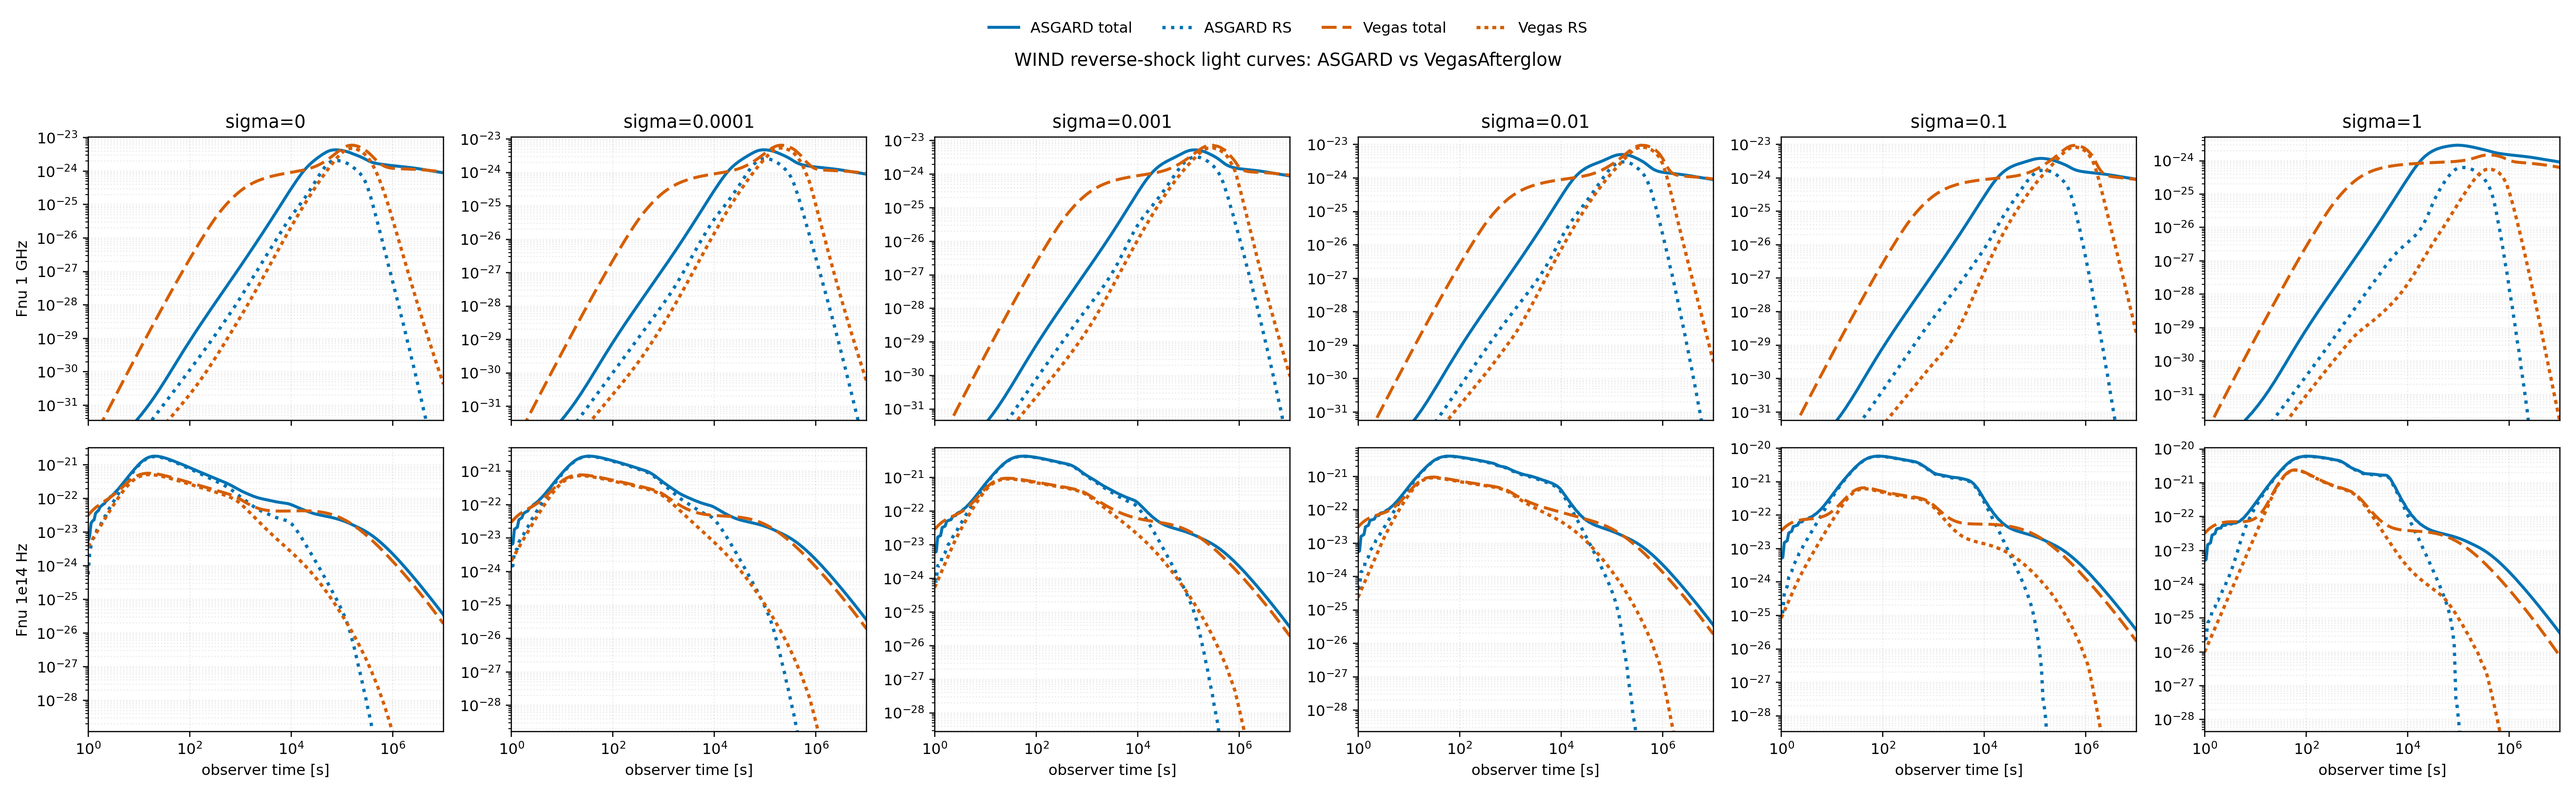
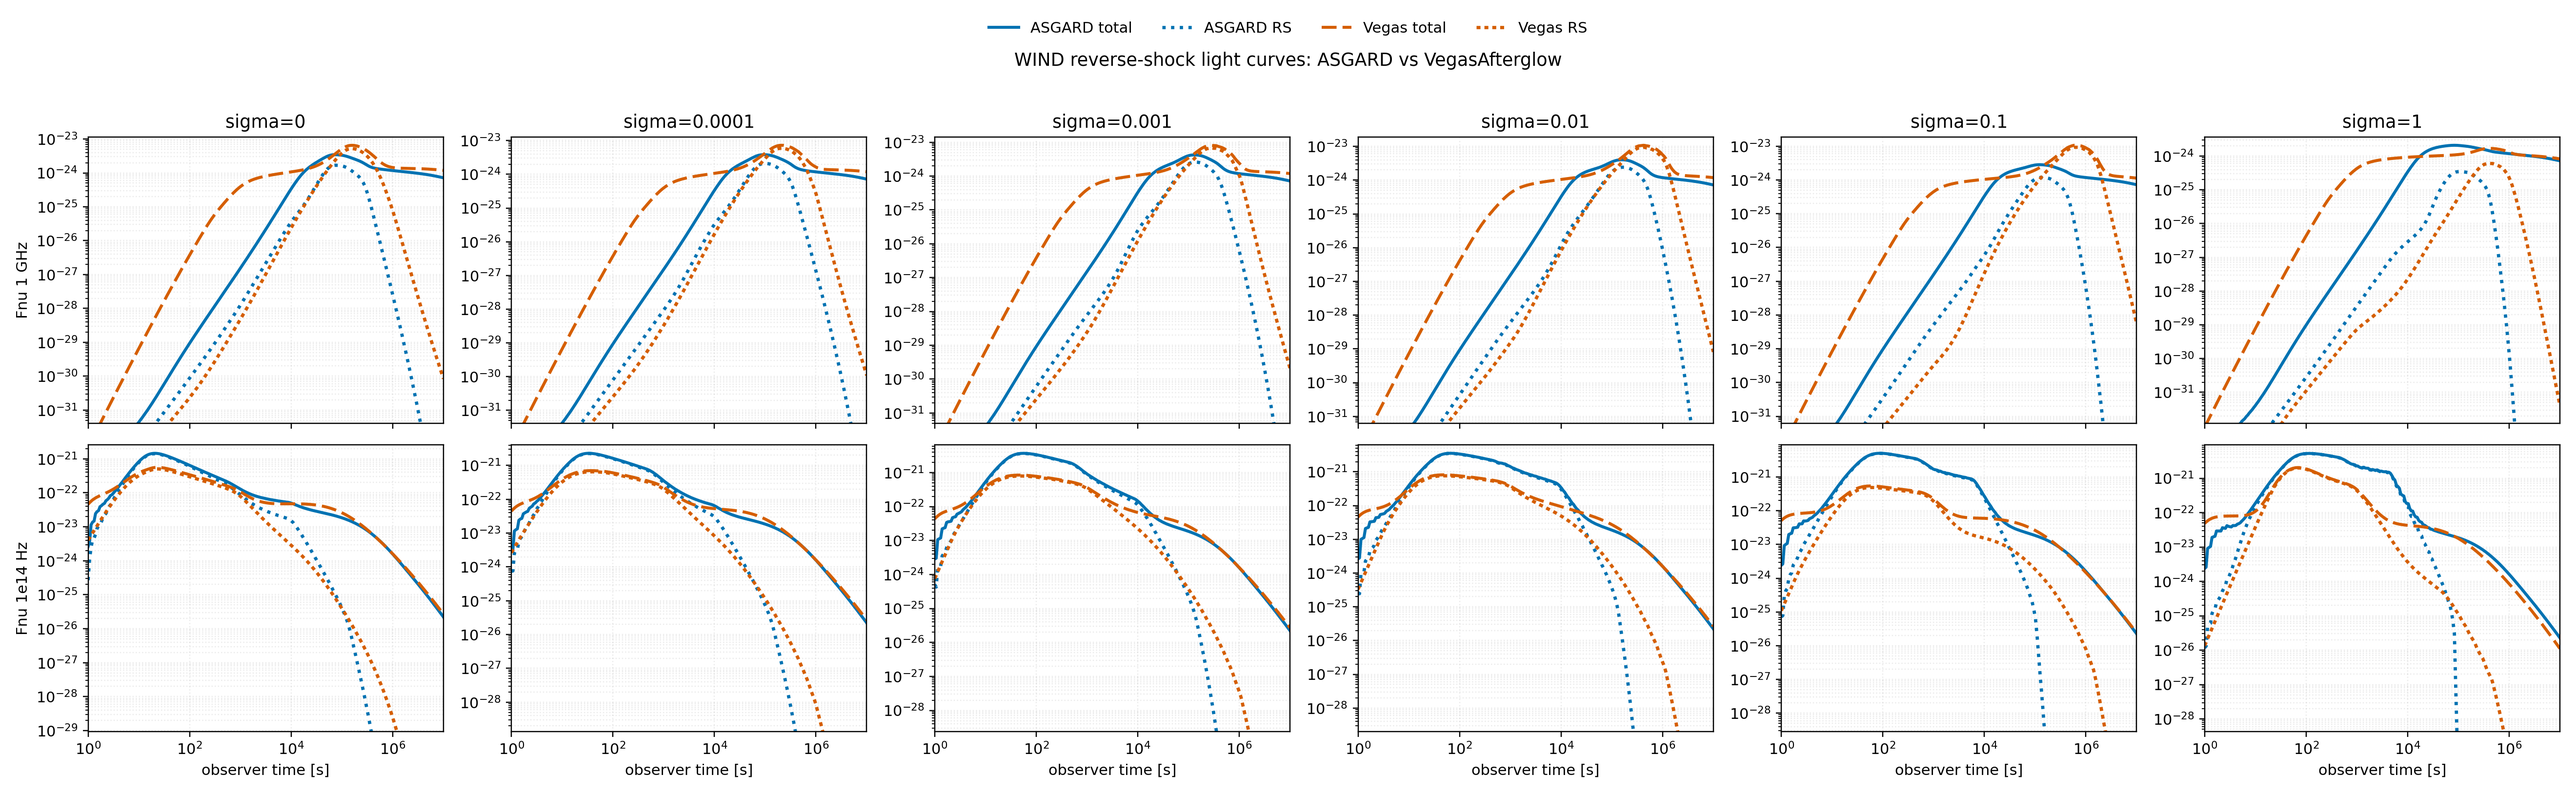
Restore magnetized RS Vegas light-curve comparisons

diff --git a/tests/magnetized_rs_vegas_lc_compare.py b/tests/magnetized_rs_vegas_lc_compare.py
@@ -1,0 +1,330 @@
+from __future__ import annotations
+
+import argparse
+from pathlib import Path
+
+import matplotlib
+
+matplotlib.use("Agg")
+import matplotlib.pyplot as plt
+import numpy as np
+
+from _repo_path import ensure_repo_root_on_path
+
+
+ensure_repo_root_on_path()
+
+from asgard_core import Model, Observer, UniformMedium, WindMedium, top_hat_jet
+from tests.public_api_builders import hadronic, numerics, observer_grid, radiation, reverse_shock, solver_options
+
+from VegasAfterglow import ISM as VegasISM
+from VegasAfterglow import Model as VegasModel
+from VegasAfterglow import Observer as VegasObserver
+from VegasAfterglow import Radiation as VegasRadiation
+from VegasAfterglow import Wind as VegasWind
+from VegasAfterglow.VegasAfterglowC import Ejecta as VegasEjecta
+
+
+ROOT = Path(__file__).resolve().parents[1]
+OUTPUT_DIRS = {
+    "ism": ROOT / "output" / "asgard_doc" / "magnetized_rs_sigma_benchmark",
+    "wind": ROOT / "output" / "asgard_doc" / "magnetized_rs_sigma_benchmark_wind",
+}
+SIGMAS = (0.0, 1.0e-4, 1.0e-3, 1.0e-2, 1.0e-1, 1.0)
+BANDS_HZ = np.array([1.0e9, 1.0e14], dtype=float)
+BAND_LABELS = ("1 GHz", "1e14 Hz")
+E_ISO = 1.0e54
+GAMMA0 = 50.0
+THETA_J = 1.0e-1
+DURATION_S = 500.0
+A_STAR = 5.0e-2
+WIND_N_ISM = 1.0e-15
+ISM_N = 1.0e-1
+Z = 0.4
+LUMI_DIST_CM = 1.0e26
+FWD_EPS_E = 1.0e-1
+FWD_EPS_B = 1.0e-3
+FWD_P = 2.5
+FWD_XI = 1.0e-1
+RVS_EPS_E = 0.3
+RVS_EPS_B = 0.1
+RVS_P = 2.4
+RVS_XI = 1.0
+
+
+def _top_hat_field(inside: float, outside: float = 0.0):
+    def field(_phi: float, theta: float) -> float:
+        return inside if theta <= THETA_J else outside
+
+    return field
+
+
+def _output_path(medium: str) -> Path:
+    suffix = "wind" if medium == "wind" else "ism"
+    return OUTPUT_DIRS[medium] / f"magnetized_rs_sigma_{suffix}_vegas_lc_compare.png"
+
+
+def _asgard_medium(medium: str):
+    if medium == "ism":
+        return UniformMedium(number_density_cm3=ISM_N)
+    if medium == "wind":
+        return WindMedium(a_star=A_STAR, density_floor_cm3=WIND_N_ISM, density_cap_cm3=None)
+    raise ValueError(f"unknown medium {medium!r}")
+
+
+def _vegas_medium(medium: str):
+    if medium == "ism":
+        return VegasISM(n_ism=ISM_N)
+    if medium == "wind":
+        return VegasWind(A_star=A_STAR, n_ism=WIND_N_ISM)
+    raise ValueError(f"unknown medium {medium!r}")
+
+
+def _asgard_model(
+    sigma: float,
+    medium: str,
+    *,
+    cooling_mode: str,
+    num_r: int,
+    num_theta: int,
+    num_tobs: int,
+) -> Model:
+    return Model(
+        jet=top_hat_jet(
+            energy_iso_erg=E_ISO,
+            initial_lorentz_factor=GAMMA0,
+            opening_angle_rad=THETA_J,
+            shell_duration_s=DURATION_S,
+            magnetar=None,
+            spreading=False,
+        ),
+        medium=_asgard_medium(medium),
+        observer=Observer(
+            z=Z,
+            viewing_angle_rad=0.0,
+            viewing_azimuth_rad=0.0,
+            luminosity_distance_cm=LUMI_DIST_CM,
+        ),
+        fwd_rad=radiation(
+            epsilon_e=FWD_EPS_E,
+            epsilon_B=FWD_EPS_B,
+            p=FWD_P,
+            accelerated_electron_fraction=FWD_XI,
+            include_ssc=False,
+            include_kn_correction=False,
+        ),
+        rvs_rad=radiation(
+            epsilon_e=RVS_EPS_E,
+            epsilon_B=RVS_EPS_B,
+            p=RVS_P,
+            accelerated_electron_fraction=RVS_XI,
+            include_ssc=False,
+            include_kn_correction=False,
+        ),
+        numerics=numerics(
+            num_radius=num_r,
+            num_theta=num_theta,
+            num_phi=1,
+            num_observer_time=num_tobs,
+            num_electron_gamma=41,
+            num_photon_frequency=51,
+            num_threads=1,
+            initial_radius_cm=1.0e14,
+        ),
+        observer_grid=observer_grid(time_min_s=1.0, time_max_s=1.0e7),
+        solver_options=solver_options(
+            electron_solver="fullhide_1d",
+            ssc_cooling_mode=cooling_mode,
+        ),
+        reverse_shock=reverse_shock(
+            enabled=True,
+            shell_duration_s=DURATION_S,
+            upstream_sigma=sigma,
+            include_ssc=False,
+            include_cross_zone_ic=False,
+        ),
+        hadronic=hadronic(),
+    )
+
+
+def _vegas_model(sigma: float, medium: str) -> VegasModel:
+    return VegasModel(
+        jet=VegasEjecta(
+            E_iso=_top_hat_field(E_ISO),
+            Gamma0=_top_hat_field(GAMMA0, GAMMA0),
+            sigma0=_top_hat_field(sigma),
+            duration=DURATION_S,
+        ),
+        medium=_vegas_medium(medium),
+        observer=VegasObserver(lumi_dist=LUMI_DIST_CM, z=Z, theta_obs=0.0),
+        fwd_rad=VegasRadiation(eps_e=FWD_EPS_E, eps_B=FWD_EPS_B, p=FWD_P, xi_e=FWD_XI, ssc=False),
+        rvs_rad=VegasRadiation(eps_e=RVS_EPS_E, eps_B=RVS_EPS_B, p=RVS_P, xi_e=RVS_XI, ssc=False),
+        resolutions=(0.06, 0.14, 10),
+    )
+
+
+def _positive(values: np.ndarray) -> np.ndarray:
+    arr = np.asarray(values, dtype=float)
+    return arr[np.isfinite(arr) & (arr > 0.0)]
+
+
+def _ylim(curves: list[np.ndarray], rel_floor: float = 1.0e-8) -> tuple[float, float]:
+    positives = [_positive(curve) for curve in curves]
+    panel = np.concatenate([curve for curve in positives if curve.size])
+    ymax = float(np.nanmax(panel))
+    shown = panel[panel >= ymax * rel_floor]
+    ymin = float(np.nanmin(shown if shown.size else panel))
+    return 10.0 ** (np.log10(ymin) - 0.25), 10.0 ** (np.log10(ymax) + 0.25)
+
+
+def _plot_curve(
+    ax,
+    times: np.ndarray,
+    values: np.ndarray,
+    *,
+    color: str,
+    linestyle,
+    label: str | None,
+    linewidth: float,
+) -> None:
+    arr = np.asarray(values, dtype=float)
+    arr = np.where((arr > 0.0) & np.isfinite(arr), arr, np.nan)
+    ax.loglog(times, arr, color=color, linestyle=linestyle, linewidth=linewidth, label=label)
+
+
+def build_plot(
+    times: np.ndarray,
+    *,
+    medium: str,
+    cooling_mode: str,
+    num_r: int,
+    num_theta: int,
+    num_tobs: int,
+    output: Path,
+) -> None:
+    data: dict[tuple[str, float], tuple[np.ndarray, np.ndarray]] = {}
+    for sigma in SIGMAS:
+        as_flux = _asgard_model(
+            sigma,
+            medium,
+            cooling_mode=cooling_mode,
+            num_r=num_r,
+            num_theta=num_theta,
+            num_tobs=num_tobs,
+        ).flux_density_grid(times, BANDS_HZ)
+        vg_flux = _vegas_model(sigma, medium).flux_density_grid(times, BANDS_HZ)
+        data[("ASGARD", sigma)] = (np.asarray(as_flux.total, dtype=float), np.asarray(as_flux.rev.sync, dtype=float))
+        vg_total = np.asarray(vg_flux.total, dtype=float)
+        vg_rs = np.asarray(vg_flux.rvs.sync, dtype=float)
+        if medium == "ism" and sigma >= 1.0e-5 and not np.any(np.isfinite(vg_rs) & (vg_rs > 0.0)):
+            raise RuntimeError(
+                "VegasAfterglow returned zero ISM magnetized RS synchrotron; "
+                "install the patched 2.0.5 source recorded in doc/patches/"
+                "vegasafterglow-2.0.5-rvs-ism-compression.patch."
+            )
+        data[("Vegas", sigma)] = (vg_total, vg_rs)
+
+    fig, axes = plt.subplots(len(BANDS_HZ), len(SIGMAS), figsize=(24.0, 7.4), dpi=220, sharex=True, squeeze=False)
+    colors = {"ASGARD": "#0072B2", "Vegas": "#D55E00"}
+    for i_band, band_label in enumerate(BAND_LABELS):
+        for i_sigma, sigma in enumerate(SIGMAS):
+            ax = axes[i_band, i_sigma]
+            as_total, as_rs = data[("ASGARD", sigma)]
+            vg_total, vg_rs = data[("Vegas", sigma)]
+            _plot_curve(
+                ax,
+                times,
+                as_total[i_band],
+                color=colors["ASGARD"],
+                linestyle="-",
+                linewidth=2.0,
+                label="ASGARD total" if i_band == 0 and i_sigma == 0 else None,
+            )
+            _plot_curve(
+                ax,
+                times,
+                as_rs[i_band],
+                color=colors["ASGARD"],
+                linestyle=":",
+                linewidth=2.2,
+                label="ASGARD RS" if i_band == 0 and i_sigma == 0 else None,
+            )
+            _plot_curve(
+                ax,
+                times,
+                vg_total[i_band],
+                color=colors["Vegas"],
+                linestyle=(0, (5, 2)),
+                linewidth=2.0,
+                label="Vegas total" if i_band == 0 and i_sigma == 0 else None,
+            )
+            _plot_curve(
+                ax,
+                times,
+                vg_rs[i_band],
+                color=colors["Vegas"],
+                linestyle=(0, (1.2, 1.2)),
+                linewidth=2.2,
+                label="Vegas RS" if i_band == 0 and i_sigma == 0 else None,
+            )
+            ax.set_ylim(*_ylim([as_total[i_band], as_rs[i_band], vg_total[i_band], vg_rs[i_band]]))
+            ax.grid(True, which="both", alpha=0.25, linestyle=":")
+            if i_band == 0:
+                ax.set_title(f"sigma={sigma:g}")
+            if i_sigma == 0:
+                ax.set_ylabel(f"Fnu {band_label}")
+    for ax in axes[-1, :]:
+        ax.set_xlabel("observer time [s]")
+    axes[0, 0].set_xlim(times[0], times[-1])
+    fig.legend(loc="upper center", ncol=4, frameon=False, bbox_to_anchor=(0.5, 0.99))
+    fig.suptitle(f"{medium.upper()} reverse-shock light curves: ASGARD vs VegasAfterglow", y=0.935)
+    fig.tight_layout(rect=(0.0, 0.0, 1.0, 0.92))
+    output.parent.mkdir(parents=True, exist_ok=True)
+    fig.savefig(output)
+    plt.close(fig)
+
+    for sigma in SIGMAS:
+        for backend in ("ASGARD", "Vegas"):
+            total, rs = data[(backend, sigma)]
+            msg = []
+            for i_band, band_label in enumerate(BAND_LABELS):
+                idx = int(np.nanargmax(rs[i_band]))
+                ratio = float(rs[i_band, idx] / total[i_band, idx]) if total[i_band, idx] > 0.0 else float("nan")
+                msg.append(f"{band_label} RS_peak={rs[i_band, idx]:.3e} ratio_at_rs_peak={ratio:.3g}")
+            print(f"{medium} sigma={sigma:g} {backend}: " + "; ".join(msg))
+    print(f"wrote {output}")
+
+
+def main() -> None:
+    parser = argparse.ArgumentParser()
+    parser.add_argument("--medium", choices=("ism", "wind", "both"), default="both")
+    parser.add_argument("--times", type=int, default=240)
+    parser.add_argument("--num-r", type=int, default=80)
+    parser.add_argument("--num-tobs", type=int, default=48)
+    parser.add_argument("--num-theta", type=int, default=20)
+    parser.add_argument(
+        "--cooling-mode",
+        choices=("none", "numeric_ic_kn", "nakar_y_thomson"),
+        default="nakar_y_thomson",
+    )
+    parser.add_argument("--output", type=Path, default=None)
+    args = parser.parse_args()
+    if args.output is not None and args.medium == "both":
+        raise ValueError("--output is only valid when --medium is ism or wind")
+    media = ("ism", "wind") if args.medium == "both" else (args.medium,)
+    times = np.logspace(0.0, 7.0, args.times)
+    for medium in media:
+        output = _output_path(medium) if args.output is None else args.output
+        build_plot(
+            times,
+            medium=medium,
+            cooling_mode=args.cooling_mode,
+            num_r=args.num_r,
+            num_theta=args.num_theta,
+            num_tobs=args.num_tobs,
+            output=output,
+        )
+
+
+if __name__ == "__main__":
+    main()
